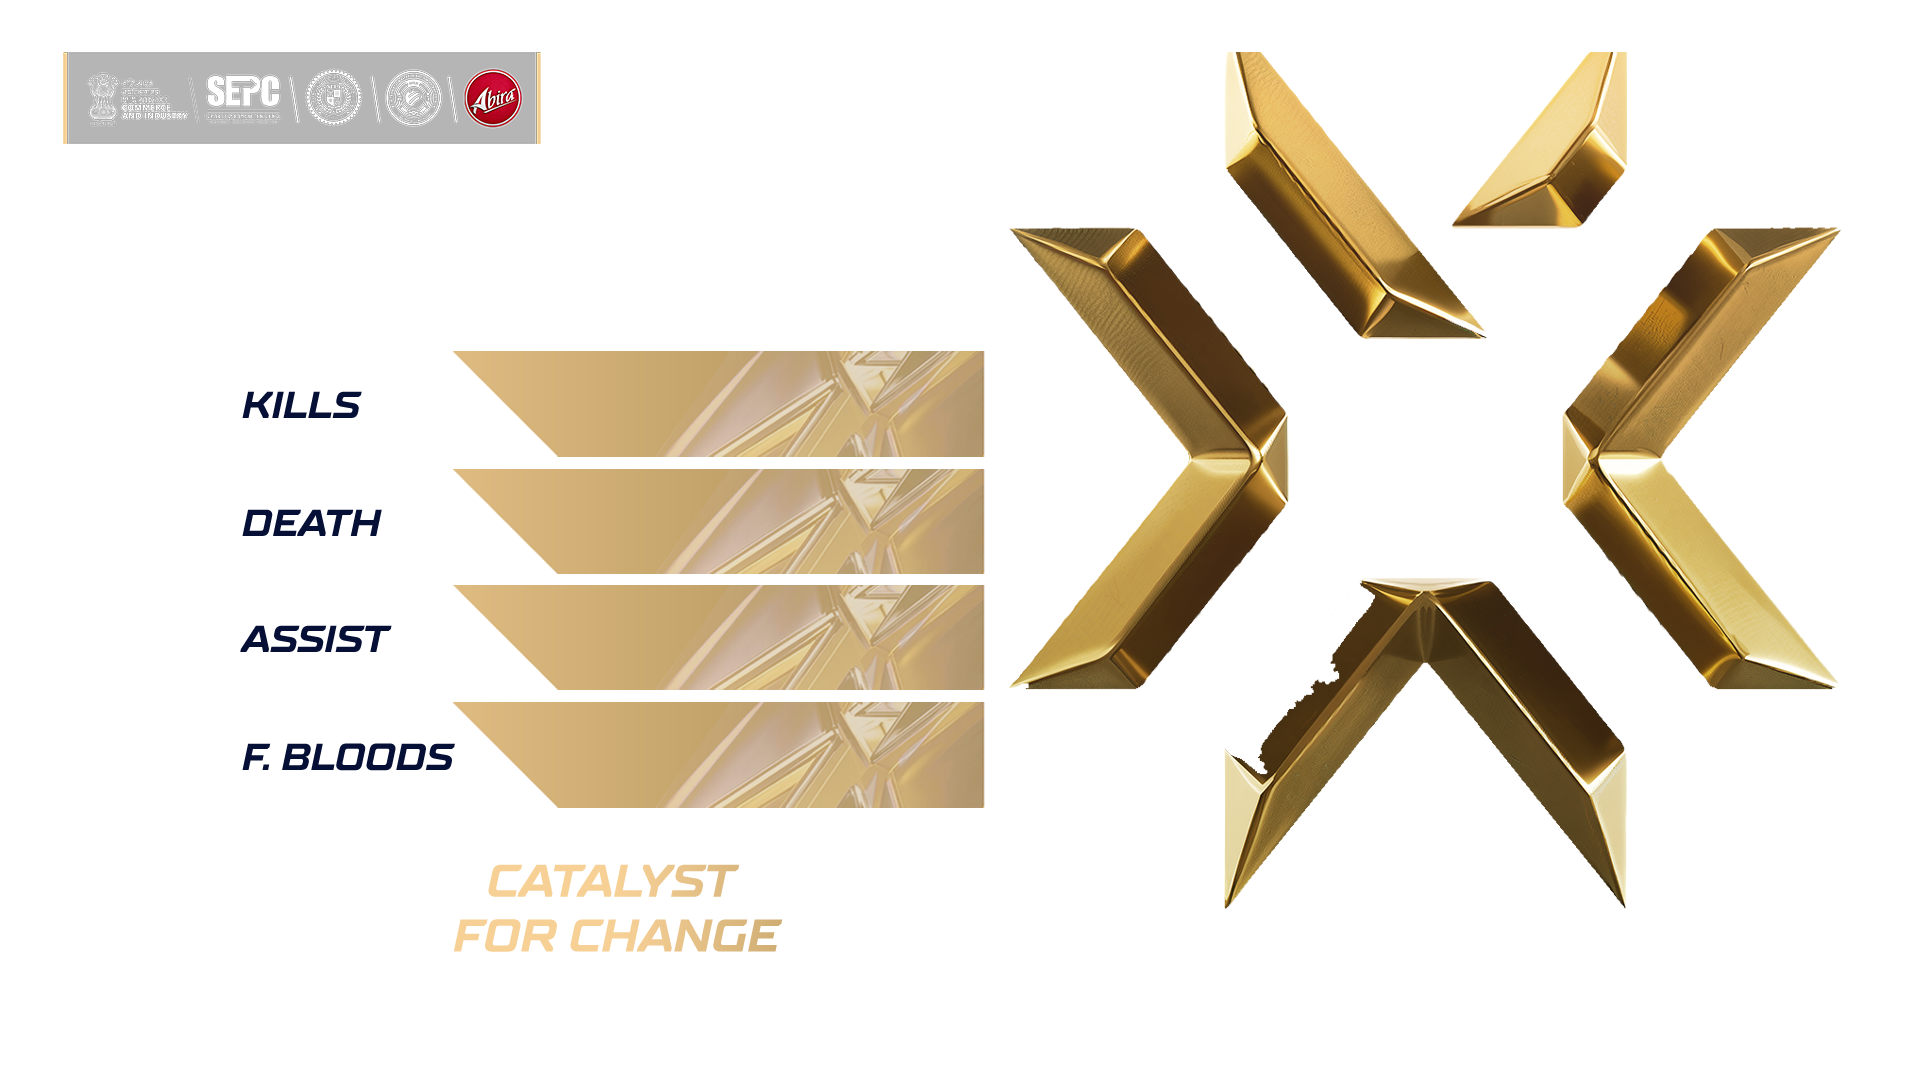
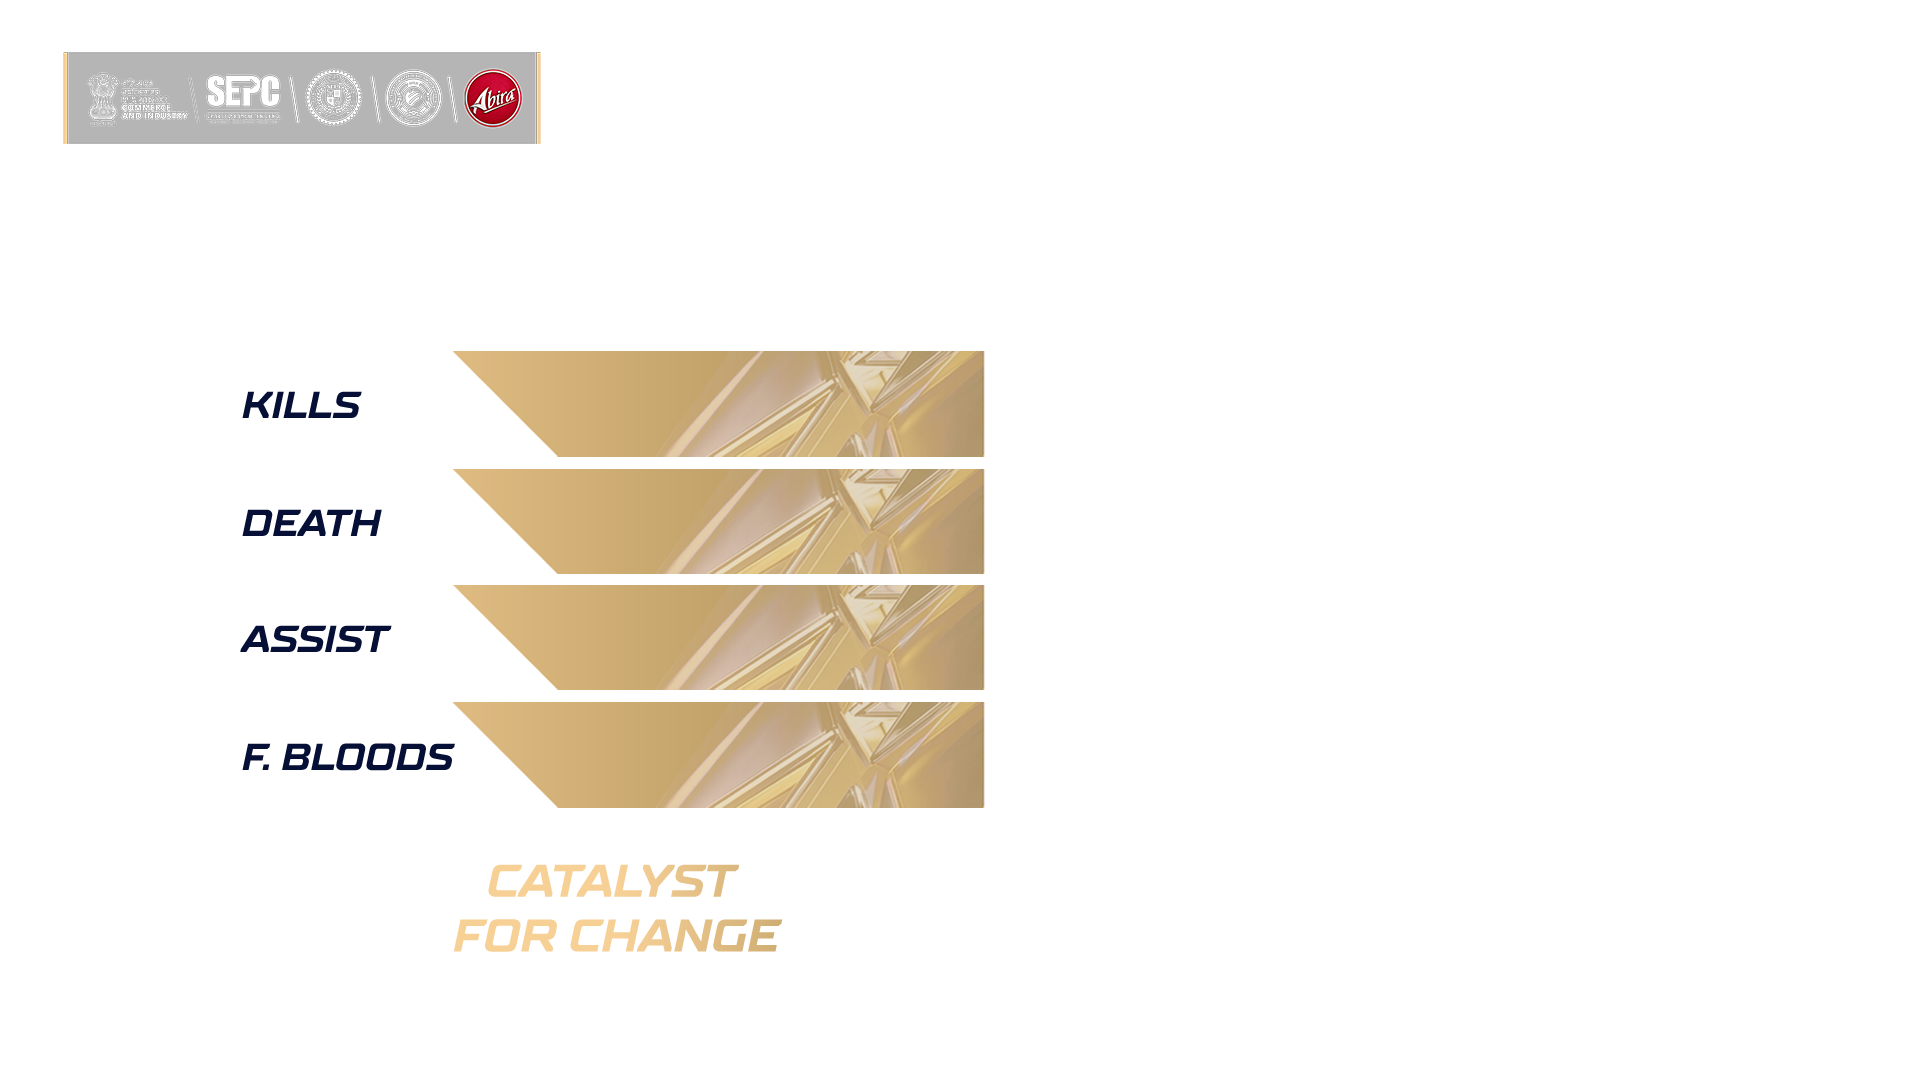
Fix Head-to-Head portrait cropping to match MVP's full-body treatment; remove sponsor branding; pick up updated headtohead.png/playermvp-plain.png art

diff --git a/overlay/valorant_mvp.html b/overlay/valorant_mvp.html
@@ -21,18 +21,18 @@
 
     Head-to-Head lives in THIS SAME file/OBS source as a second display
     mode (state.mvpScreenMode: "mvp" | "headtohead"), not a separate page
-    -- an explicit request, so the sponsor branding strip (top-left) stays
-    on screen through the transition instead of the whole browser source
-    swapping. #sponsor-branding is cropped out of playermvp-plain.png's
-    own baked copy into its own standalone asset and shown unconditionally
-    regardless of mode; #mvp-content/#h2h-content each carry the rest of
-    their own layout (own bg-frame, own dynamic elements) and cross-fade
-    via the .screen-content/.visible classes below when the operator
-    toggles mode from the dashboard. Head-to-Head's own positions are
-    measured off overlay/assets/headtohead.png (no PSD, no obvious per-
-    player value slots baked into that flat art either) -- best estimate,
-    nudge with Graphic Fixing -> Head to Head as needed, same as every
-    other PSD-less asset in this project.
+    -- an explicit request. #mvp-content/#h2h-content each carry their own
+    layout (own bg-frame, own dynamic elements) and cross-fade via the
+    .screen-content/.visible classes below when the operator toggles mode
+    from the dashboard. Head-to-Head's own positions are measured off
+    overlay/assets/headtohead.png (no PSD, no obvious per-player value
+    slots baked into that flat art either) -- best estimate, nudge with
+    Graphic Fixing -> Head to Head as needed, same as every other PSD-less
+    asset in this project. Head-to-Head's two agent portraits use the SAME
+    full-body art + object-fit:contain/bottom + bottom-pivoted sway
+    animation as MVP's own big art area (see #agent-portrait below) --
+    just resized/repositioned to fit inside Head-to-Head's smaller chevron
+    zones instead of MVP's big 700x940 area.
   */
 
   @font-face {
@@ -67,12 +67,6 @@
   @keyframes enter{ to{ opacity:1; transform:translateY(0); } }
 
   .bg-frame{ position:absolute; top:0; left:0; width:1920px; height:1080px; pointer-events:none; }
-
-  /* Always visible regardless of mvpScreenMode -- see the file-level
-     comment above. z-index keeps it above BOTH bg-frames (headtohead.png's
-     own gold "VERSUS" banner spans the full top of the canvas and would
-     otherwise paint over it once h2h-content is visible). */
-  #sponsor-branding{ position:absolute; left:59px; top:48px; width:485px; height:99px; object-fit:contain; z-index:10; }
 
   /* MVP and Head-to-Head each get their own wrap so the operator's mode
      toggle can cross-fade between them without touching the sponsor
@@ -164,19 +158,26 @@
   #h2h-p1-firstbloods, #h2h-p2-firstbloods{ top:667px; }
 
   /* Picked agent portrait, framed within each side's gold chevron cluster
-     -- "character pick" per an explicit request, same cropped headshot
-     asset Character Pick/Team Chemistry Stats use (Valorant Agents/
-     Portraits/), not the full-body art MVP's own big art area uses. */
-  .h2h-portrait{ position:absolute; top:182px; width:380px; height:447px; object-fit:cover; display:none; }
-  #h2h-p1-portrait{ left:80px; }
-  #h2h-p2-portrait{ left:1460px; }
+     -- SAME treatment as MVP's own big art area (full-body art, contain,
+     bottom-anchored, bottom-pivoted sway), not the tight headshot crop
+     Character Pick/Team Chemistry Stats use -- object-fit:cover on a
+     full-body image here was cropping off both the head and feet. Outer
+     wrap (Graphic-Fixing target, static) / inner img (sway animation),
+     same split as #agent-portrait / #agent-portrait-img above. */
+  .h2h-portrait-wrap{ position:absolute; top:182px; width:380px; height:447px; display:none; }
+  .h2h-portrait-wrap.visible{ display:block; }
+  #h2h-p1-portrait-wrap{ left:80px; }
+  #h2h-p2-portrait-wrap{ left:1460px; }
+  .h2h-portrait-img{
+    width:100%; height:100%; object-fit:contain; object-position:bottom;
+    transform-origin:50% 100%;
+    animation: agentSway 6s ease-in-out infinite;
+  }
 </style>
 </head>
 <body>
 
 <div id="stage">
-  <img id="sponsor-branding" src="assets/valorant_sponsor_branding.png" alt="">
-
   <div id="mvp-content" class="screen-content visible">
     <img class="bg-frame" src="assets/playermvp-plain.png" alt="">
 
@@ -197,8 +198,12 @@
   <div id="h2h-content" class="screen-content">
     <img class="bg-frame" src="assets/headtohead.png" alt="">
 
-    <img class="h2h-portrait" id="h2h-p1-portrait" alt="">
-    <img class="h2h-portrait" id="h2h-p2-portrait" alt="">
+    <div class="h2h-portrait-wrap" id="h2h-p1-portrait-wrap">
+      <img class="h2h-portrait-img" id="h2h-p1-portrait-img" alt="">
+    </div>
+    <div class="h2h-portrait-wrap" id="h2h-p2-portrait-wrap">
+      <img class="h2h-portrait-img" id="h2h-p2-portrait-img" alt="">
+    </div>
 
     <img class="h2h-logo" id="h2h-team1-logo" alt="">
     <div class="h2h-name" id="h2h-team1-name"></div>
@@ -273,8 +278,8 @@ function setWrappedImg(wrapId, imgId, src){
   if(src) img.src = src;
 }
 
-const GFX_ELEMENT_IDS = ["sponsor-branding","team-logo","team-name","player-name","stat-kills","stat-deaths","stat-assists","stat-firstbloods","agent-portrait"];
-const H2H_GFX_ELEMENT_IDS = ["h2h-team1-logo","h2h-team1-name","h2h-team2-name","h2h-team2-logo","h2h-p1-portrait","h2h-p2-portrait","h2h-p1-kills","h2h-p1-deaths","h2h-p1-assists","h2h-p1-firstbloods","h2h-p2-kills","h2h-p2-deaths","h2h-p2-assists","h2h-p2-firstbloods"];
+const GFX_ELEMENT_IDS = ["team-logo","team-name","player-name","stat-kills","stat-deaths","stat-assists","stat-firstbloods","agent-portrait"];
+const H2H_GFX_ELEMENT_IDS = ["h2h-team1-logo","h2h-team1-name","h2h-team2-name","h2h-team2-logo","h2h-p1-portrait-wrap","h2h-p2-portrait-wrap","h2h-p1-kills","h2h-p1-deaths","h2h-p1-assists","h2h-p1-firstbloods","h2h-p2-kills","h2h-p2-deaths","h2h-p2-assists","h2h-p2-firstbloods"];
 
 function applyGraphicOverridesTo(ids, overrides){
   ids.forEach(id => {
@@ -360,8 +365,8 @@ function applyState(state){
   document.getElementById("h2h-team2-name").textContent = p2.name;
   setImg("h2h-team1-logo", p1.logo);
   setImg("h2h-team2-logo", p2.logo);
-  setImg("h2h-p1-portrait", agentPortraitUrl(p1.agent));
-  setImg("h2h-p2-portrait", agentPortraitUrl(p2.agent));
+  setWrappedImg("h2h-p1-portrait-wrap", "h2h-p1-portrait-img", agentPortraitUrl(p1.agent));
+  setWrappedImg("h2h-p2-portrait-wrap", "h2h-p2-portrait-img", agentPortraitUrl(p2.agent));
   document.getElementById("h2h-p1-kills").textContent = p1.kills;
   document.getElementById("h2h-p1-deaths").textContent = p1.deaths;
   document.getElementById("h2h-p1-assists").textContent = p1.assists;

diff --git a/dashboard/dashboard.html b/dashboard/dashboard.html
@@ -5502,7 +5502,6 @@ const VAL_GRAPHIC_PAGES = {
       "stat-assists": { left:700, top:578, width:250, height:70, kind:"box", label:"Assists" },
       "stat-firstbloods": { left:700, top:690, width:250, height:70, kind:"box", label:"First Bloods" },
       "agent-portrait": { left:1150, top:90, width:700, height:940, kind:"box", label:"Agent Portrait" },
-      "sponsor-branding": { left:59, top:48, width:485, height:99, kind:"box", label:"Sponsor Branding (always visible, MVP + Head to Head)" },
     },
   },
   headtohead: {
@@ -5516,8 +5515,8 @@ const VAL_GRAPHIC_PAGES = {
       "h2h-team1-name": { left:80, top:35, width:600, height:50, kind:"box", label:"Player 1 Name" },
       "h2h-team2-name": { left:1240, top:35, width:600, height:50, kind:"box", label:"Player 2 Name" },
       "h2h-team2-logo": { left:1850, top:35, width:50, height:50, kind:"box", label:"Player 2 Team Logo (right of name)" },
-      "h2h-p1-portrait": { left:80, top:182, width:380, height:447, kind:"box", label:"Player 1 Agent Portrait" },
-      "h2h-p2-portrait": { left:1460, top:182, width:380, height:447, kind:"box", label:"Player 2 Agent Portrait" },
+      "h2h-p1-portrait-wrap": { left:80, top:182, width:380, height:447, kind:"box", label:"Player 1 Agent Portrait" },
+      "h2h-p2-portrait-wrap": { left:1460, top:182, width:380, height:447, kind:"box", label:"Player 2 Agent Portrait" },
       "h2h-p1-kills": { left:930, top:312, width:150, height:40, kind:"box", label:"Player 1 Kills" },
       "h2h-p1-deaths": { left:930, top:432, width:150, height:40, kind:"box", label:"Player 1 Deaths" },
       "h2h-p1-assists": { left:930, top:547, width:150, height:40, kind:"box", label:"Player 1 Assists" },
